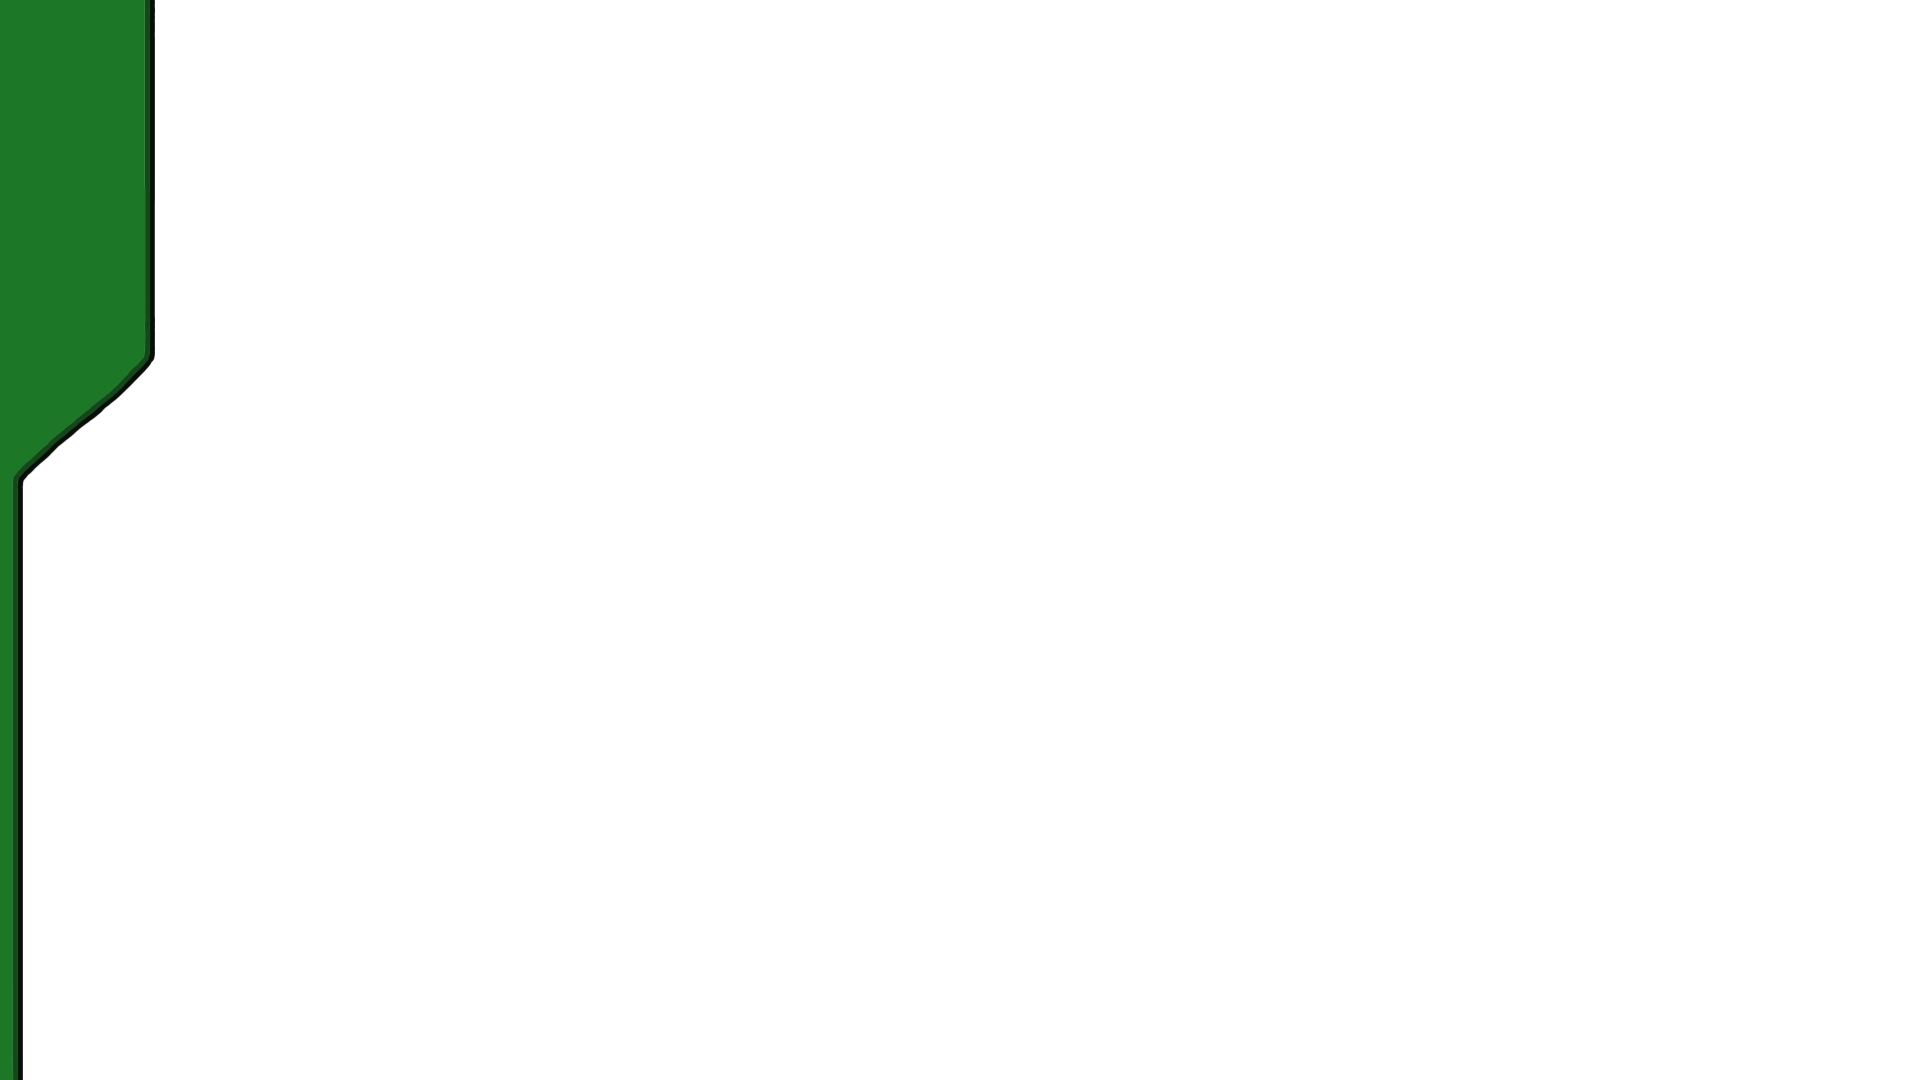
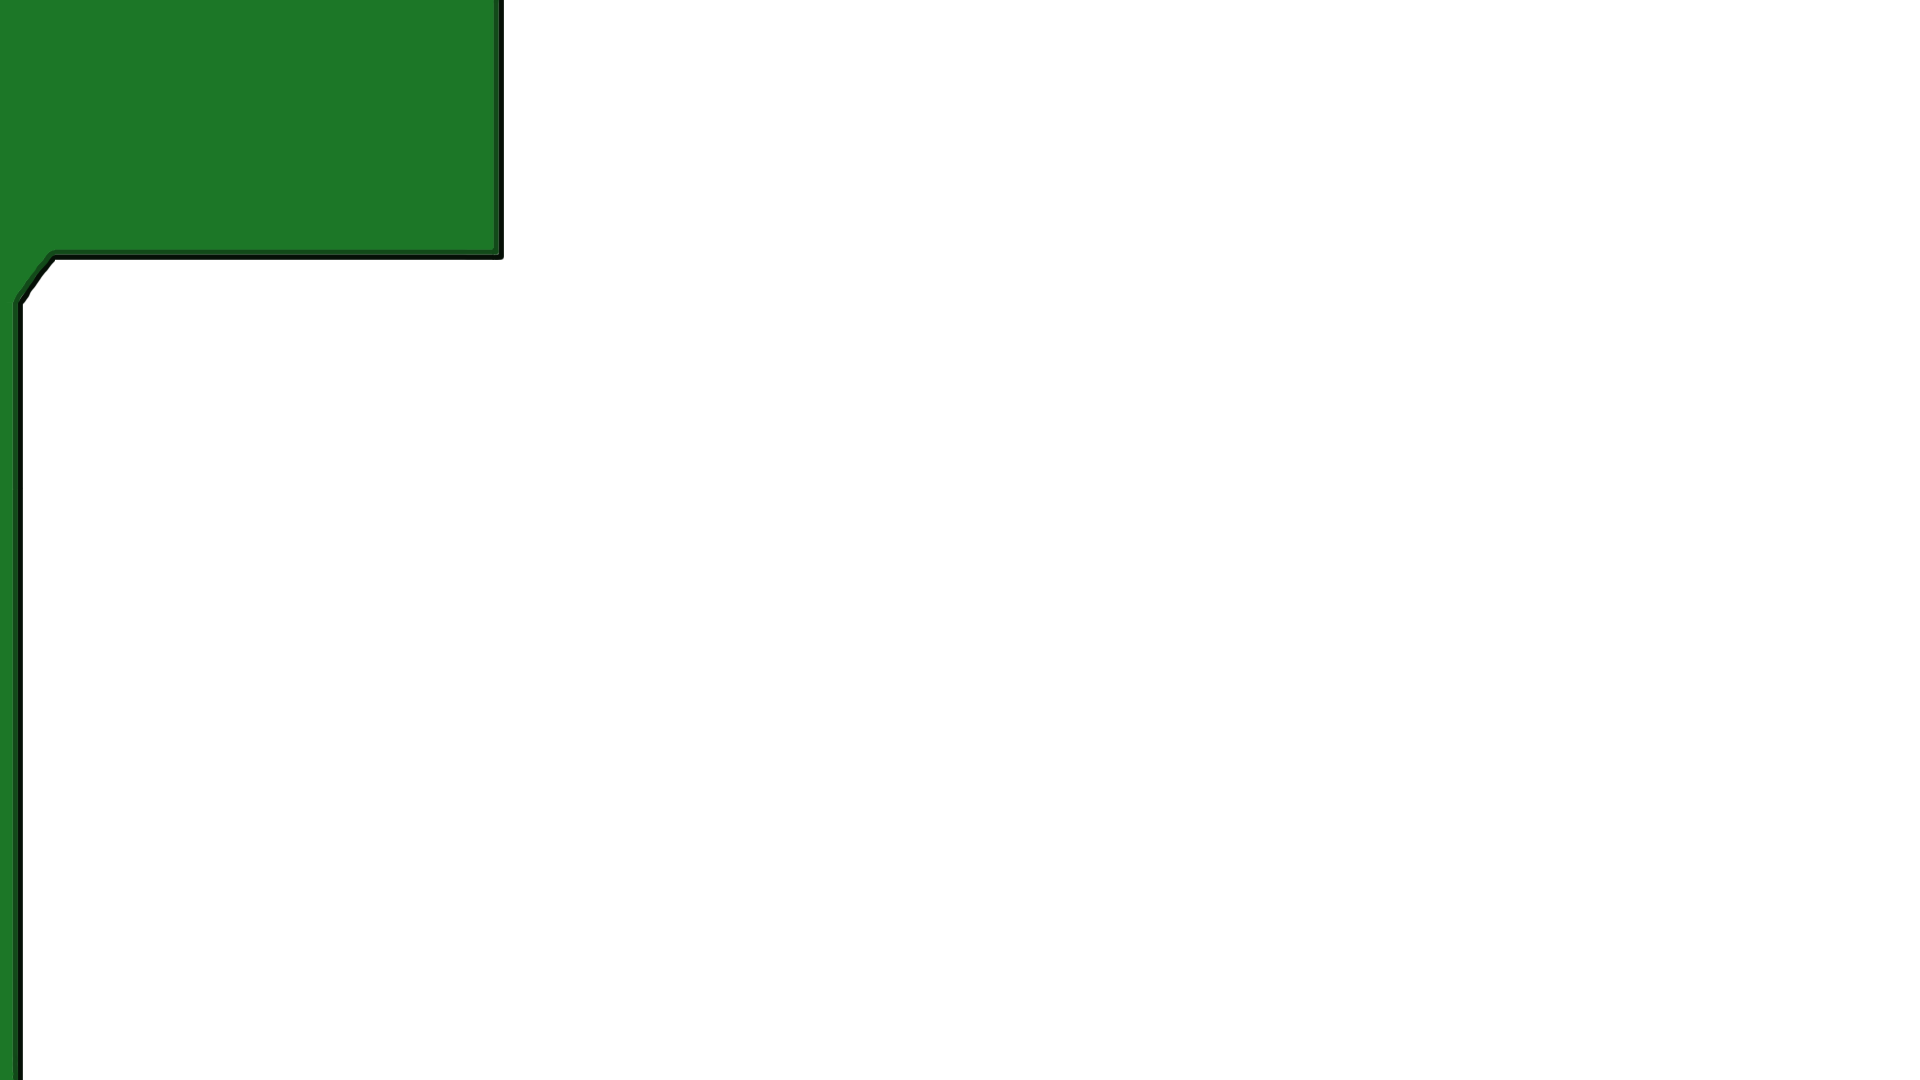
Ajout description terminal radiateur

Changed region(s): [[0.0, 0.0, 0.2812, 0.4583]]

diff --git a/src/Ressources.h b/src/Ressources.h
@@ -3,6 +3,7 @@
 
 #include "Entite.h"
 #include "Loader.h"
+#include "fonctions.h"
 #include <vector>
 
 
@@ -97,6 +98,8 @@ class Machine : public Conteneur, public Entite
 {
 	public:
 
+		static Entite const SurfaceDessinDetails;
+
 		Machine(int nbEntrees, int nbSorties);
 		virtual void faireFonctionner(float dt);
 
@@ -106,7 +109,7 @@ class Machine : public Conteneur, public Entite
 		virtual void effectuerRotation(Loader& loader);
 
 		sf::Texture* getTexture();
-		void afficherDetails(sf::RenderWindow& window);
+		virtual void afficherDetails(sf::RenderWindow& window, Loader& loader) const = 0;
 
 		void setNoeudProche(Noeud* noeud);
 		Noeud* getNoeudProche() const;
@@ -132,6 +135,7 @@ class TerminalRadiateur : public Machine
 	public:
 
 		TerminalRadiateur(Loader& loader);
+		void afficherDetails(sf::RenderWindow& window, Loader& loader) const;
 		void faireFonctionner(float dt);
 		void effectuerRotation(Loader& loader);
 };

diff --git a/src/Carte.cpp b/src/Carte.cpp
@@ -117,7 +117,7 @@ void Carte::afficher(sf::RenderWindow& window, std::vector<Salle*>& sallesPointe
 			}
 
 			m_salles[i]->afficher(m_loader, window, flags, m_temperature, machinePointee);
-			m_salles[i]->afficherNoeuds(window);
+			// m_salles[i]->afficherNoeuds(window);
 		}
 	}
 
@@ -388,7 +388,7 @@ void Carte::afficherRessources(sf::RenderWindow& window, Salle* sallePointee, Ma
 
 	if (m_menus[5]->estAffiche())
 	{
-		machinePointee->afficherDetails(window);
+		machinePointee->afficherDetails(window, m_loader);
 	}
 }
 
@@ -985,7 +985,7 @@ bool Carte::collisionSourisMenu(sf::RenderWindow const& window)
 {
 	for (int i(0); i < m_menus.size(); i++)
 	{
-		if (m_menus[i]->getClicBouton(window) != -1)
+		if (m_menus[i]->estAffiche() && m_menus[i]->collisionSouris(window))
 		{
 			return true;
 		}

diff --git a/src/Loader.cpp b/src/Loader.cpp
@@ -5,7 +5,7 @@ Loader::Loader()
 {
 	// Chargement des images
 
-	int const nombreImages(76);
+	int const nombreImages(78);
 
 	std::string cheminsImages[nombreImages] = {
 		"images/fond/fond.png",
@@ -18,6 +18,7 @@ Loader::Loader()
 		"images/interface/logo nuit.png",
 		"images/interface/logo eau.png",
 		"images/interface/logo temperature.png",
+		"images/interface/logo ressource manquante.png",
 
 		"images/interface/HUD gauche/fond.png",
 		"images/interface/HUD gauche/boutons.png",
@@ -43,6 +44,7 @@ Loader::Loader()
 		"images/interface/fusion salles/bouton onclick.png",
 
 		"images/interface/detail machine/fond.png",
+		"images/interface/detail machine/progression.png",
 
 
 		"images/salle des commandes/salle.png",

diff --git a/src/Menu.cpp b/src/Menu.cpp
@@ -509,7 +509,7 @@ MenuDetailMachine::MenuDetailMachine(Loader& loader, sf::VideoMode const& resolu
 
 	float scaleX(float(resolution.width) / 1920.0), scaleY(float(resolution.height) / 1080.0);
 
-	setCoord(0, 0, 155 * scaleX, 1080 * scaleY);
-	m_spriteFond = sf::Sprite(*loader.obtenirTexture("images/interface/detail machine/fond.png"), sf::IntRect(0, 0, 155, 1080));
+	setCoord(0, 0, 504 * scaleX, 260 * scaleY);
+	m_spriteFond = sf::Sprite(*loader.obtenirTexture("images/interface/detail machine/fond.png"), sf::IntRect(0, 0, 504, 1080));
 	m_spriteFond.setPosition(0, 0);
 }

diff --git a/src/Salle.cpp b/src/Salle.cpp
@@ -1845,3 +1845,18 @@ void SalleDeRefroidissement::effectuerRotation(Loader& loader)
 
 	m_machines[0]->effectuerRotation(loader);
 }
+
+
+// FONCTIONS MEMBRES DE LA CLASSE PANNEAU_RADIATEUR
+
+
+PanneauRadiateur::PanneauRadiateur(Loader& loader)
+{
+
+}
+
+
+void PanneauRadiateur::effectuerRotation(Loader& loader)
+{
+
+}

diff --git a/src/Salle.h b/src/Salle.h
@@ -190,4 +190,14 @@ class SalleDeRefroidissement : public Salle
 };
 
 
+class PanneauRadiateur : public Salle
+{
+	public:
+
+		PanneauRadiateur(Loader& loader);
+
+		void effectuerRotation(Loader& loader);
+};
+
+
 #endif // SALLE_H_INCLUDED

diff --git a/src/Menu.h b/src/Menu.h
@@ -2,7 +2,6 @@
 #define INTERFACE_H_INCLUDED
 
 #include "Connexion.h"
-#include "fonctions.h"
 
 
 // FENETRES
